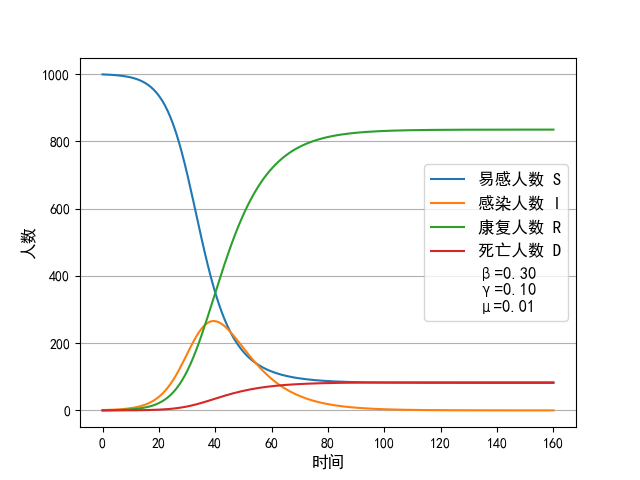
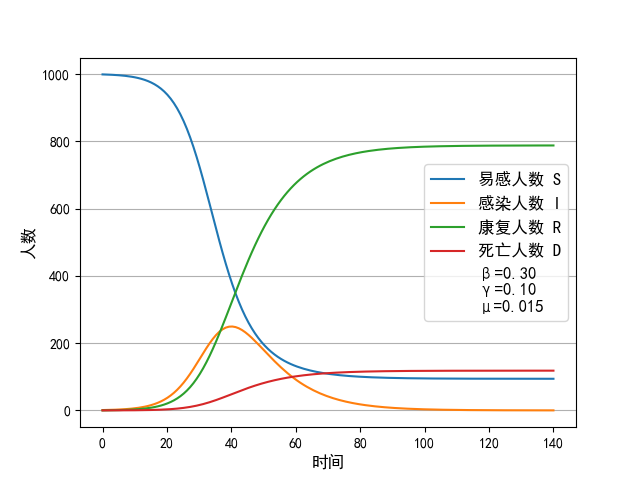
问题1图片和代码

diff --git a/python/prob_1.py b/python/prob_1.py
@@ -1,0 +1,59 @@
+import numpy as np
+from scipy.integrate import odeint
+import matplotlib.pyplot as plt
+
+# 设置中文字体
+plt.rcParams['font.sans-serif'] = ['SimHei']  # 使用黑体
+plt.rcParams['axes.unicode_minus'] = False  # 正常显示负号
+
+
+# SIRD模型
+
+
+def sird_model(y, t, beta, gamma, mu):
+    S, I, R, D = y
+    N = S + I + R + D
+    dSdt = -beta * S * I / N
+    dIdt = beta * S * I / N - gamma * I - mu * I
+    dRdt = gamma * I
+    dDdt = mu * I
+    return [dSdt, dIdt, dRdt, dDdt]
+
+
+# 初始条件和时间点
+y0 = [999, 1, 0, 0]  # 初始易感、感染、康复和死亡人数
+t = np.linspace(0, 140, 140)  # 时间点
+
+# 初始参数猜测
+beta, gamma, mu = [0.3, 0.1, 0.015] 
+
+# 打印结果
+print(f"参数：β={beta}, γ={gamma}, μ={mu}")
+
+# 计算模型预测
+solution = odeint(sird_model, y0, t, args=(beta, gamma, mu))   
+S, I, R, D = solution.T
+
+# 可视化结果
+plt.plot(t, S, label='易感人数 S')
+plt.plot(t, I, label='感染人数 I')
+plt.plot(t, R, label='康复人数 R')
+plt.plot(t, D, label='死亡人数 D')
+
+
+# 在感染人数最多的时刻绘制一条垂直线
+max_I_idx = np.argmax(I)
+# plt.axvline(x=t[max_I_idx], ymin=0, ymax=1, color='r', linestyle='--', label='感染人数最多时刻')
+
+# 添加不可见的图例项
+# 使用plt.legend()的handles和labels参数手动添加文本标签
+handles, labels = plt.gca().get_legend_handles_labels()
+handles.append(plt.Line2D([], [], color='none'))  # 不可见的线条
+labels.append(f'β={beta:.2f}\nγ={gamma:.2f} \nμ={mu:.3f}')
+
+plt.legend(handles, labels, loc='best', fontsize=12)
+plt.xlabel('时间', fontsize=12)
+plt.ylabel('人数', fontsize=12)
+plt.grid(True,axis='y')
+# plt.title('SIRD模型')
+plt.show()
